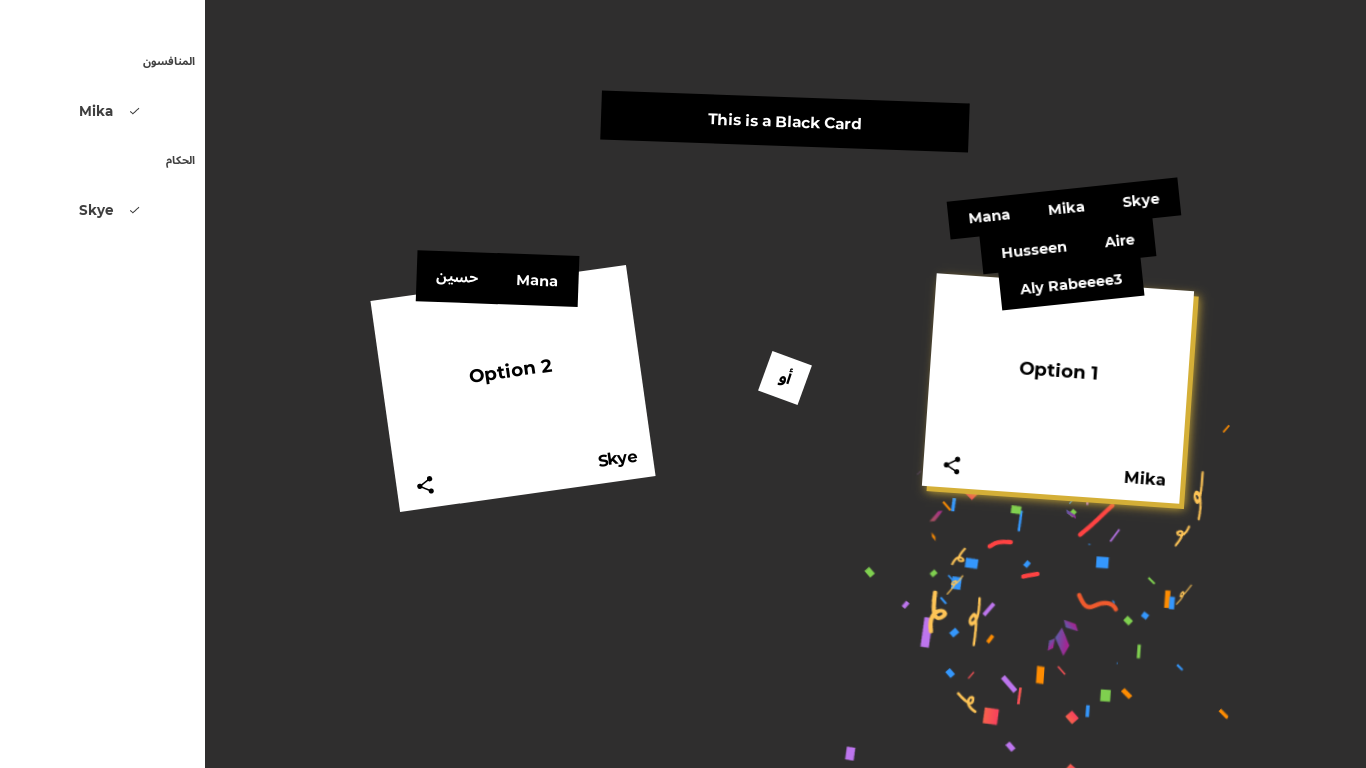
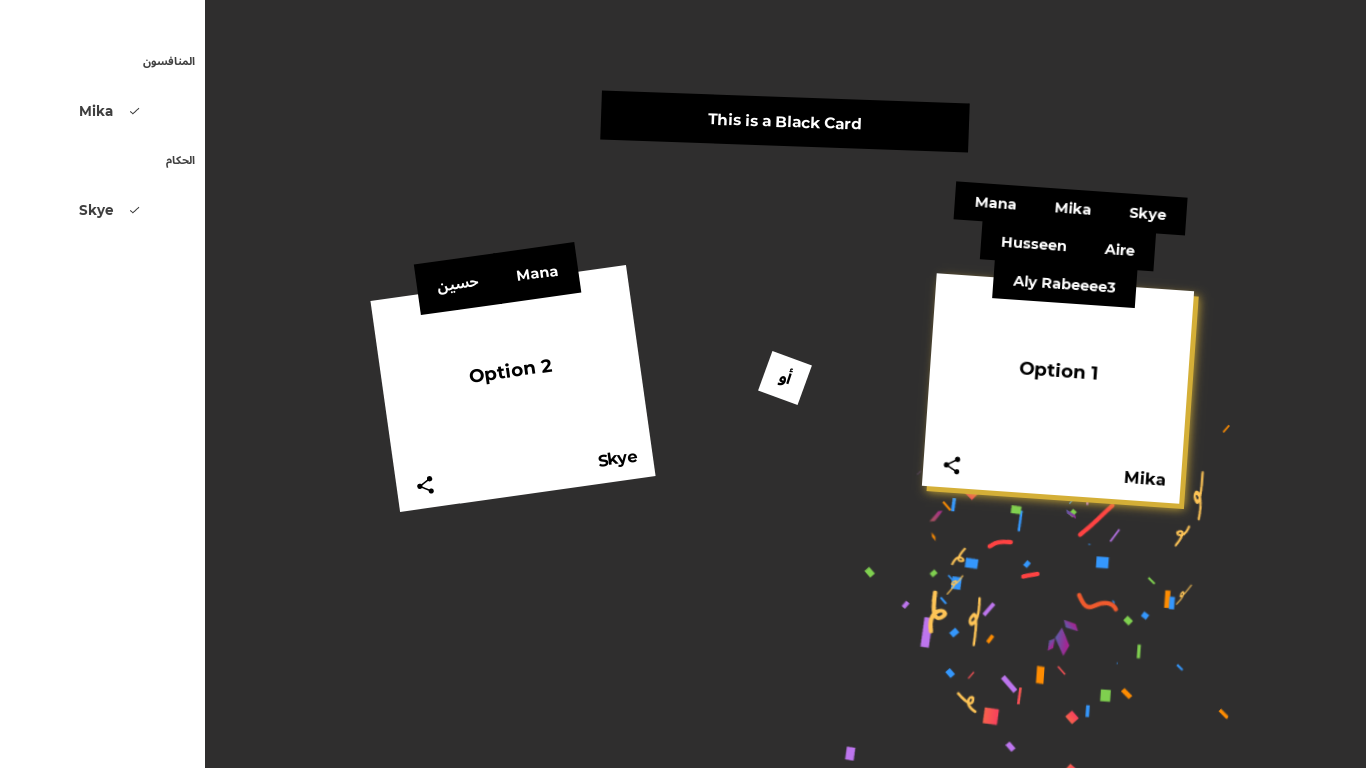
removed the vote rotation

Changed region(s): [[0.6764, 0.2188, 0.8917, 0.4062], [0.3075, 0.3125, 0.4305, 0.4062]]

diff --git a/src/components/card.js b/src/components/card.js
@@ -448,14 +448,6 @@ const styles = createStyle({
       
       width: '110%',
 
-      ':nth-child(1)': {
-        transform: 'rotateZ(10deg)'
-      },
-
-      ':nth-child(2)': {
-        transform: 'rotateZ(-10deg)'
-      },
-
       left: '-5%',
       bottom: '90%'
     }
